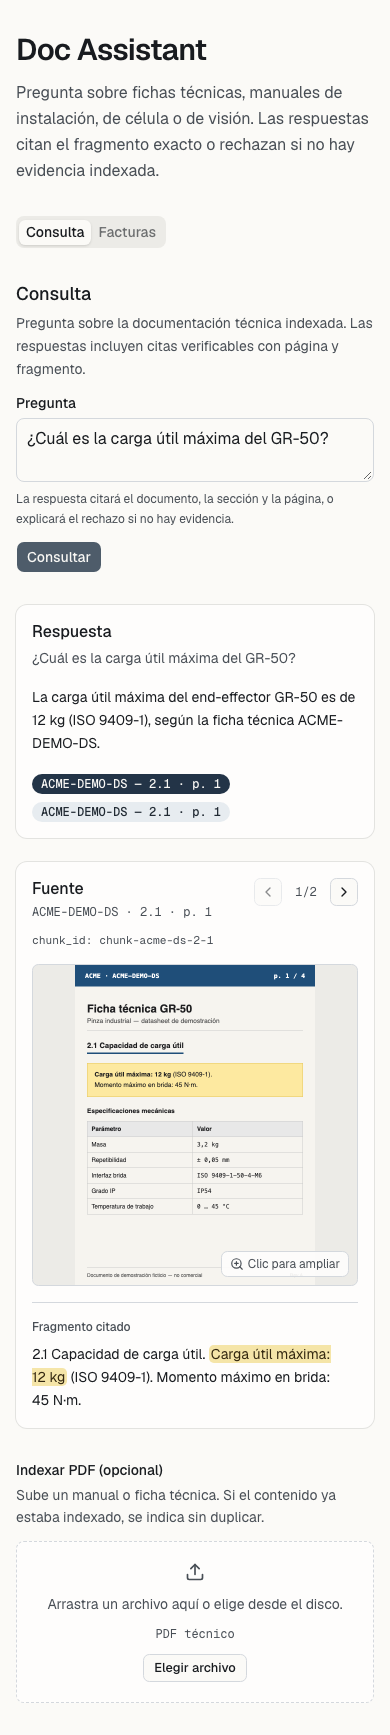
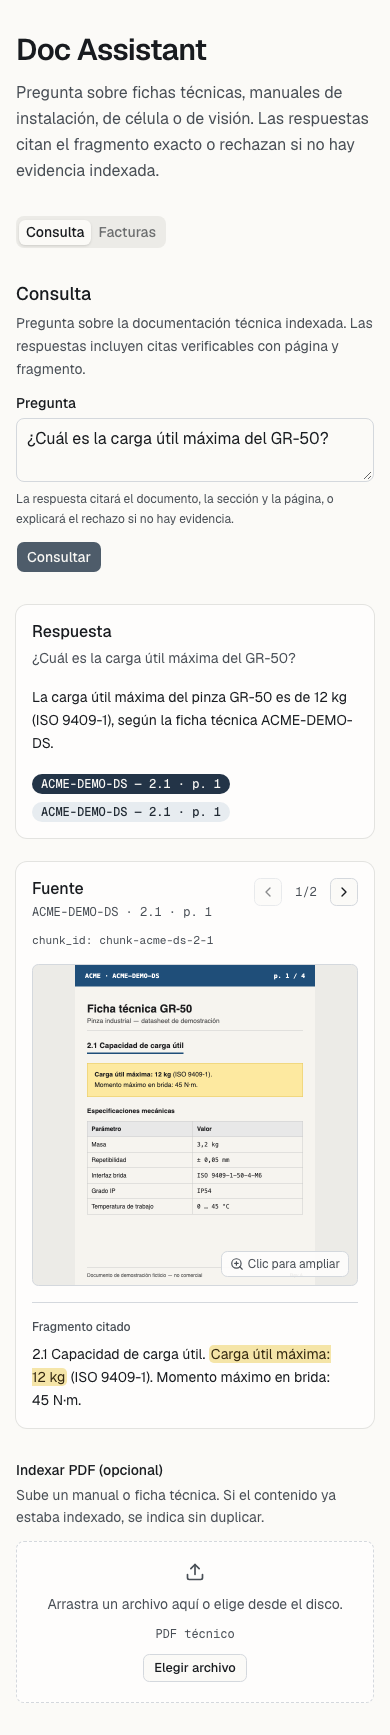
test(web): fixture de demostración neutra (ACME-DEMO-DS) y placeholder genérico

Changed region(s): [[0.0923, 0.3735, 0.8923, 0.4357]]

diff --git a/apps/web/e2e/fixtures/src/page-acme-demo-ds.html b/apps/web/e2e/fixtures/src/page-acme-demo-ds.html
@@ -1,0 +1,14 @@
+<!doctype html><meta charset="utf-8"><style>
+body{margin:0;width:480px;height:640px;background:#f6f4ef;font-family:-apple-system,Helvetica,Arial,sans-serif;color:#1d1d1f}
+.top{background:#1f4e79;color:#fff;display:flex;justify-content:space-between;padding:14px 20px;font:600 13px ui-monospace,Menlo,monospace}
+.c{padding:24px}h1{font-size:22px;margin:8px 0 4px}.sub{color:#555;font-size:13px;border-bottom:1px solid #ccc;padding-bottom:12px}
+h2{font-size:15px;margin:20px 0 6px;display:inline-block;border-bottom:3px solid #1f4e79;padding-bottom:6px}
+.box{background:#fde9a0;border:1px solid #e6c860;padding:12px 14px;font-size:13px;line-height:1.6;margin-top:12px}
+table{width:100%;border-collapse:collapse;font-size:12px;margin-top:8px}td,th{border:1px solid #ccc;padding:8px;text-align:left}th{background:#e8e8e8}
+td+td{font-family:ui-monospace,Menlo,monospace}.f{position:absolute;bottom:14px;left:24px;right:24px;border-top:1px solid #ccc;padding-top:8px;font-size:10px;color:#555;display:flex;justify-content:space-between}
+</style><div class="top"><span>ACME · ACME-DEMO-DS</span><span>p. 1 / 4</span></div><div class="c">
+<h1>Ficha técnica GR-50</h1><div class="sub">Pinza industrial — datasheet de demostración</div>
+<h2>2.1 Capacidad de carga útil</h2><div class="box"><b>Carga útil máxima: 12 kg</b> (ISO 9409-1).<br>Momento máximo en brida: 45 N·m.</div>
+<h3 style="font-size:13px;margin-top:20px">Especificaciones mecánicas</h3><table><tr><th>Parámetro</th><th>Valor</th></tr>
+<tr><td>Masa</td><td>3,2 kg</td></tr><tr><td>Repetibilidad</td><td>± 0,05 mm</td></tr><tr><td>Interfaz brida</td><td>ISO 9409-1-50-4-M6</td></tr><tr><td>Grado IP</td><td>IP54</td></tr><tr><td>Temperatura de trabajo</td><td>0 … 45 °C</td></tr></table></div>
+<div class="f"><span>Documento de demostración ficticio — no comercial</span><span>Rev A</span></div>

diff --git a/apps/web/e2e/fixtures.ts b/apps/web/e2e/fixtures.ts
@@ -8,7 +8,7 @@ export const DEMO_QUESTION = "¿Cuál es la carga útil máxima del GR-50?"
 export const askAnswerWithCitation = {
   ok: true,
   answer:
-    "La carga útil máxima del end-effector GR-50 es de 12 kg (ISO 9409-1), según la ficha técnica ACME-DEMO-DS.",
+    "La carga útil máxima del pinza GR-50 es de 12 kg (ISO 9409-1), según la ficha técnica ACME-DEMO-DS.",
   citations: [
     {
       chunk_id: "chunk-acme-ds-2-1",

diff --git a/apps/web/src/components/domain/QuestionBox.tsx b/apps/web/src/components/domain/QuestionBox.tsx
@@ -37,7 +37,7 @@ export function QuestionBox({ disabled = false, onSubmit }: QuestionBoxProps) {
           name="question"
           value={question}
           onChange={(event) => setQuestion(event.target.value)}
-          placeholder="¿Cuál es la carga útil máxima del GR-50?"
+          placeholder="Pregunta sobre tus documentos o facturas…"
           rows={3}
           disabled={disabled}
           maxLength={1000}
